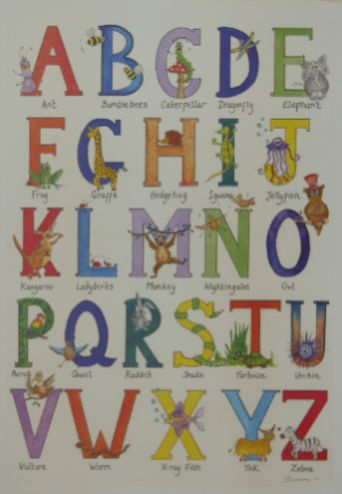
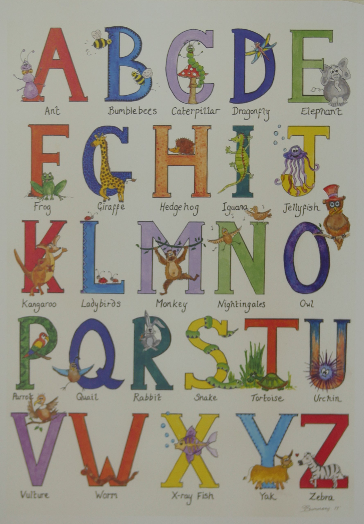
Added Javascript

Changed region(s): [[0.5263, 0.4555, 0.5556, 0.4858]]

diff --git a/art/templates/art/dictionary.html b/art/templates/art/dictionary.html
@@ -19,8 +19,7 @@
                   £35 framed
                   <br>
                   Standard postage rates apply.
-                  <br>
-                  Framed - courier rates
+                 
                 </p>
             </div>
             </div>
@@ -29,25 +28,25 @@
                 
              <div class="col-lg-4 col-sm-4 col-xs-12">  
                 <div class="card dictionaryCard text-center">
-              <img class="nameArt dictionaryPrint img-responsive" src="{% static 'home/images/Alphabet.jpg' %}"/> 
+              <img class="nameArt dictionaryPrint img-responsive" src="{% static 'home/images/Alphabet.jpg' %}"  alt="art, children's art, custom art, dictionary art, name art"/> 
               <p class="aboutParagraph">All the letters of the alphabet</p>
-                    <a href="#" class="btn btn-default orderName" onclick="#">Order Now</a>
+                    <a href="{% url 'contact' %}" class="btn btn-default orderName" onclick="#">Order Now</a>
                     </div>
                     </div>
                     
             <div class="col-lg-4 col-sm-4 col-xs-12">  
                 <div class="card dictionaryCard text-center">
-              <img class="nameArt dictionaryPrint img-responsive" src="{% static 'home/images/Caterpillar.jpg' %}"/> 
+              <img class="nameArt dictionaryPrint img-responsive" src="{% static 'home/images/Caterpillar.jpg' %}"  alt="art, children's art, custom art, dictionary art, name art"/> 
               <p class="aboutParagraph">C is for clever caterpillar</p>
-                    <a href="#" class="btn btn-default orderName" onclick="#">Order Now</a>
+                    <a href="{% url 'contact' %}" class="btn btn-default orderName" onclick="#">Order Now</a>
                     </div>
                     </div>
                     
             <div class="col-lg-4 col-sm-4 col-xs-12">  
                 <div class="card dictionaryCard text-center">
-              <img class="nameArt dictionaryPrint img-responsive" src="{% static 'home/images/elephant.jpg' %}"/> 
+              <img class="nameArt dictionaryPrint img-responsive" src="{% static 'home/images/elephant.jpg' %}"  alt="art, children's art, custom art, dictionary art, name art"/> 
               <p class="aboutParagraph">E is for an entertaining elephant</p>
-                    <a href="#" class="btn btn-default orderName" onclick="#">Order Now</a>
+                    <a href="{% url 'contact' %}" class="btn btn-default orderName" onclick="#">Order Now</a>
                     </div>
                     </div>
             
@@ -56,25 +55,25 @@
             <div class="row">
             <div class="col-lg-4 col-sm-4 col-xs-12">    
             <div class="card dictionaryCard text-center">
-              <img class="nameArt img-responsive" src="{% static 'home/images/dictionary4.jpeg' %}"/> 
+              <img class="nameArt img-responsive" src="{% static 'home/images/FrogFINAL.jpg' %}"  alt="art, children's art, custom art, dictionary art, name art"/> 
               <p class="aboutParagraph">F is for a friendly frog</p>
-                    <a href="#" class="btn btn-default orderName" onclick="#">Order Now</a>
+                    <a href="{% url 'contact' %}" class="btn btn-default orderName" onclick="#">Order Now</a>
                     </div>
                     </div>
             
               <div class="col-lg-4 col-sm-4 col-xs-12">  
                 <div class="card dictionaryCard text-center">
-              <img class="nameArt dictionaryPrint img-responsive" src="{% static 'home/images/Giraffe.jpg' %}"/> 
+              <img class="nameArt dictionaryPrint img-responsive" src="{% static 'home/images/Giraffe.jpg' %}"  alt="art, children's art, custom art, dictionary art, name art"/> 
               <p class="aboutParagraph">G is for a greedy giraffe</p>
-                    <a href="#" class="btn btn-default orderName" onclick="#">Order Now</a>
+                    <a href="{% url 'contact' %}" class="btn btn-default orderName" onclick="#">Order Now</a>
                     </div>
                     </div>
                     
               <div class="col-lg-4 col-sm-4 col-xs-12">  
                 <div class="card dictionaryCard text-center">
-              <img class="nameArt dictionaryPrint img-responsive" src="{% static 'home/images/Jaguar.jpg' %}"/> 
+              <img class="nameArt dictionaryPrint img-responsive" src="{% static 'home/images/Jaguar.jpg' %}"  alt="art, children's art, custom art, dictionary art, name art"/> 
               <p class="aboutParagraph">J is for a jazzy jaguar</p>
-                    <a href="#" class="btn btn-default orderName" onclick="#">Order Now</a>
+                    <a href="{% url 'contact' %}" class="btn btn-default orderName" onclick="#">Order Now</a>
                     </div>
                     </div>
 
@@ -85,18 +84,25 @@
                   
              <div class="col-lg-4 col-sm-4 col-xs-12">
             <div class="card dictionaryCard text-center">
-              <img class="nameArt img-responsive" src="{% static 'home/images/dictionary2.jpeg' %}"/> 
+              <img class="nameArt img-responsive" src="{% static 'home/images/dictionary2.jpeg' %}"  alt="art, children's art, custom art, dictionary art, name art"/> 
               <p class="aboutParagraph">L is for lovely ladybirds </p>
-                    <a href="#" class="btn btn-default orderName" onclick="#">Order Now</a>
+                    <a href="{% url 'contact' %}" class="btn btn-default orderName" onclick="#">Order Now</a>
                     </div>
                     </div>
                 
+                 <div class="col-lg-4 col-sm-4 col-xs-12">  
+                <div class="card dictionaryCard text-center">
+              <img class="nameArt img-responsive" src="{% static 'home/images/MonkeyFINAL.jpg' %}"  alt="art, children's art, custom art, dictionary art, name art"/> 
+              <p class="aboutParagraph">M is for a michevious monkey </p>
+                    <a href="{% url 'contact' %}" class="btn btn-default orderName" onclick="#">Order Now</a>
+                    </div>
+                    </div>                
                     
                 <div class="col-lg-4 col-sm-4 col-xs-12">  
                 <div class="card dictionaryCard text-center">
-              <img class="nameArt dictionaryPrint img-responsive" src="{% static 'home/images/owl.jpg' %}"/> 
+              <img class="nameArt dictionaryPrint img-responsive" src="{% static 'home/images/owl.jpg' %}"  alt="art, children's art, custom art, dictionary art, name art"/> 
               <p class="aboutParagraph">O is for an old owl</p>
-                    <a href="#" class="btn btn-default orderName" onclick="#">Order Now</a>
+                    <a href="{% url 'contact' %}" class="btn btn-default orderName" onclick="#">Order Now</a>
                     </div>
                     </div>
                 </div>
@@ -107,9 +113,9 @@
  {% for art in art %}
         <div class="col-lg-6 col-sm-6 col-xs-12">
                 <div class="card dictionaryCard text-center">
-                 <img class="nameArt dictionaryPrint img-responsive" src="{{ MEDIA_URL }}{{ art.image }}"/>
+                 <img class="nameArt dictionaryPrint img-responsive" src="{{ MEDIA_URL }}{{ art.image }}"  alt="art, children's art, custom art, dictionary art, name art"/>
                     <p class="aboutParagraph">{{ art.description }}</p>
-                     <a href="#" class="btn btn-default orderName" onclick="#">Order Now</a>
+                     <a href="{% url 'contact' %}" class="btn btn-default orderName" onclick="#">Order Now</a>
                     </div>
                       <br>
                     </div>

diff --git a/art/templates/art/name.html b/art/templates/art/name.html
@@ -26,16 +26,16 @@
             </div>
             <div class="col-lg-6 col-sm-6 col-xs-12 text-left">
                  <div class="card nameCard text-center">
-              <img class="nameArt Ava img-responsive" src="{% static 'home/images/name2.jpeg' %}"/> 
+              <img class="nameArt Ava img-responsive" src="{% static 'home/images/name2.jpeg' %}" alt="Name art"/> 
               <p class="aboutParagraph">Ava: A for Angel fish, Vulture and Anteater. </p>
-                    <a href="#" class="btn btn-default orderName" onclick="#">Order Now</a>
+                    <a href="{% url 'contact' %}" class="btn btn-default orderName" onclick="#">Order Now</a>
                     </div>
                     <br>
                     <br>
                  <div class="card nameCard text-center">
-              <img class="nameArt Nathan img-responsive" src="{% static 'home/images/name3.jpeg' %}"/> 
+              <img class="nameArt Nathan img-responsive" src="{% static 'home/images/name3.jpeg' %}" alt="Name art"/> 
               <p class="aboutParagraph">Nautical Nathy opted for a mix of blues and lots of underwater pals.</p>
-                    <a href="#" class="btn btn-default orderName" onclick="#">Order Now</a>
+                    <a href="{% url 'contact' %}" class="btn btn-default orderName" onclick="#">Order Now</a>
                     </div>
                     </div>
 
@@ -43,9 +43,9 @@
             
         <div class="col-lg-6 col-sm-6 col-xs-12 text-left">
             <div class="card nameCard text-center">
-                   <img class="nameArt img-responsive" src="{% static 'home/images/barney.jpeg' %}"/>
+                   <img class="nameArt img-responsive" src="{% static 'home/images/barney.jpeg' %}" alt="Children's art"/>
                     <p class="aboutParagraph">Barney & Beau's favourite selection of animals, even mystical animals too.</p>
-                    <a href="#" class="btn btn-default orderName" onclick="#">Order Now</a>
+                    <a href="{% url 'contact' %}" class="btn btn-default orderName" onclick="#">Order Now</a>
                     </div>
                       <br>
                     </div>
@@ -54,18 +54,18 @@
         <div class="row">        
          <div class="col-lg-6 col-sm-6 col-xs-12">
             <div class="card nameCard text-center">
-                   <img class="nameArt Abigail img-responsive" src="{% static 'home/images/name9.jpeg' %}"/>
+                   <img class="nameArt Abigail img-responsive" src="{% static 'home/images/name9.jpeg' %}" alt="art for children"/>
                     <p class="aboutParagraph">Abigail's name is spelt with the help of animal friends big and small.</p>
-                    <a href="#" class="btn btn-default orderName" onclick="#">Order Now</a>
+                    <a href="{% url 'contact' %}" class="btn btn-default orderName" onclick="#">Order Now</a>
                     </div>
                       <br>
                       </div>
             
             <div class="col-lg-6 col-sm-6 col-xs-12">
             <div class="card nameCard text-center">
-                   <img class="nameArt img-responsive" src="{% static 'home/images/maddox.jpeg' %}"/>
+                   <img class="nameArt img-responsive" src="{% static 'home/images/maddox.jpeg' %}" alt="art for children"/>
                     <p class="aboutParagraph">Life's a beach for Maddox.</p>
-                    <a href="#" class="btn btn-default orderName" onclick="#">Order Now</a>
+                    <a href="{% url 'contact' %}" class="btn btn-default orderName" onclick="#">Order Now</a>
                     </div>
                       <br>
                     </div>
@@ -76,18 +76,18 @@
         <div class="row">
          <div class="col-lg-6 col-sm-6 col-xs-12">
                <div class="card nameCard text-center">
-              <img class="nameArt img-responsive" src="{% static 'home/images/name8.jpeg' %}"/> 
+              <img class="nameArt img-responsive" src="{% static 'home/images/name8.jpeg' %}" alt="art for children"/> 
               <p class="aboutParagraph">A colourful carnival for Carys</p>
-                    <a href="#" class="btn btn-default orderName" onclick="#">Order Now</a>
+                    <a href="{% url 'contact' %}" class="btn btn-default orderName" onclick="#">Order Now</a>
                     </div>
                     <br>
                    </div>
                    
                  <div class="col-lg-6 col-sm-6 col-xs-12">
                 <div class="card nameCard text-center">
-              <img class="nameArt Nathan img-responsive" src="{% static 'home/images/name4.jpeg' %}"/> 
+              <img class="nameArt Nathan img-responsive" src="{% static 'home/images/name4.jpeg' %}" alt="art, children's art, custom art, dictionary art, name art"/> 
               <p class="aboutParagraph">Mystical Megan's fantasy land </p>
-                    <a href="#" class="btn btn-default orderName" onclick="#">Order Now</a>
+                    <a href="{% url 'contact' %}" class="btn btn-default orderName" onclick="#">Order Now</a>
                     </div>
                     <br>
                     </div>
@@ -99,9 +99,9 @@
  {% for art in art %}
         <div class="col-lg-6 col-sm-6 col-xs-12">
                 <div class="card nameCard text-center">
-                 <img class="nameArt img-responsive" src="{{ MEDIA_URL }}{{ art.image }}"/>
+                 <img class="nameArt img-responsive" src="{{ MEDIA_URL }}{{ art.image }}"  alt="art, children's art, custom art, dictionary art, name art"/>
                     <p class="aboutParagraph">{{ art.description }}</p>
-                     <a href="#" class="btn btn-default orderName" onclick="#">Order Now</a>
+                     <a href="{% url 'contact' %}" class="btn btn-default orderName" onclick="#">Order Now</a>
                     </div>
                       <br>
                     </div>

diff --git a/home/templates/base.html b/home/templates/base.html
@@ -17,6 +17,7 @@
     {% endblock head_style %} 
     {% block head_js %}
     <script src="https://cdnjs.cloudflare.com/ajax/libs/jquery/3.2.1/jquery.min.js"></script>
+     <script src="{% static 'home/js/script.js' %}"></script>
     {% endblock head_js %}
     <title>Zoodles</title>
 </head>
@@ -27,9 +28,9 @@
         <nav class="navbar navbar-default navbar-masthead navbar-trans navbar-fixed-top">
             <div class="container-fluid">
                 <div class="navbar-header navbar-left">
-                    <a class="brand" href="/"><img class="img-responsive" src="{% static 'home/images/zoodles.1.png' %}"><h3>.co.uk</h3></img></a>
+                    <a class="brand" href="/"><img class="img-responsive" src="{% static 'home/images/zoodles.co.png' %}"></img></a>
 
-                    <button type="button" class="navbar-toggle collapsed" data-toggle="collapse" data-target="#navbar" aria-expanded="false" aria-controls="navbar">
+                    <button type="button" class="navbar-toggle collapsed pull-right" data-toggle="collapse" data-target="#navbar" aria-expanded="false" aria-controls="navbar">
                     <span class="sr-only">Toggle navigation</span>
                     <span class="icon-bar"></span>
                     <span class="icon-bar"></span>
@@ -48,11 +49,47 @@
                 </div>
             </div>
         </nav>
-    </section>
+    </section
      
 
  <div class="container-fluid">
         {% block content %} {% endblock %}
     </div>
+    
+    <hr>
+        <section id="Footer">
+        <footer class="myFooter">
+            <div class="container-fluid">
+                <div class="row">
+                    <div class="col-sm-4 text-center">
+                        <h3>My Art</h3>
+                        <a href="{% url 'name' %}">Name Portraits</a>
+                        <br>
+                        <a href="{% url 'dictionary' %}">Dictionary Prints</a>
+
+                        
+
+                    </div>
+                    <div class="col-sm-4">
+                       <img class="img-responsive footerLogo" src="{% static 'home/images/zoodles.co.png' %}"></img>
+                     </div>
+                     
+                    <div class="col-sm-4 text-center">
+                        <h2>Contact</h2>
+                            <a href="{% url 'contact' %}">Contact</a>
+                            <br>
+                            <a href="{% url 'about' %}">About</a>
+                        </div>
+                        <br>
+                   <div class="col-12 text-center">
+                       <p>Website designed with <i class="fa fa-heart"></i> by <a href="https://www.nicholawolfe.com/">Nichola Wolfe</a></p>
+                   </div>
+                    </div>
+                </div>
+            </div>
+
+        </footer>
+    </section>
+
 </body>
 </html>

diff --git a/home/templates/contact.html b/home/templates/contact.html
@@ -17,7 +17,7 @@
                     <br>
                     <p class="formText">Fill in the form below outlining the custom art piece or print you would you like and I'll respond with options and pricing.</p>
                     <br>
-                    <form class="myForm" onsubmit="openModal()" action="https://formspree.io/beansara@hotmail.com" method="POST">
+                    <form class="myForm" onsubmit="openModal()" action="https://formspree.io/sara@zoodles.co.uk" method="POST">
                         <div class="form-group"><input class="form-control" name="email" required="" type="email" placeholder="Your email *"></div>
                         <div class="form-group"><input class="form-control mt-3" name="name" type="text" placeholder="Your name"></div>
                         <div class="form-group"><input class="form-control mt-3" name="telephone" type="tel" placeholder="Your telephone"></div>
@@ -29,5 +29,24 @@
             </div>
         </div>
         </div>
+        
+         <article class="modal fade" tabindex="-1" role="dialog" id="myModal">
+            <div class="modal-dialog" role="document">
+                <div class="modal-content">
+                    <div class="modal-header">
+                        <button type="button" class="close" data-dismiss="modal" aria-label="Close"><span aria-hidden="true">&times;</span></button>
+                        <p class="modal-title">Thanks for getting in touch</p>
+                    </div>
+                    <div class="modal-body">
+                        <p>I've got your message and I'll respond to your query as soon as possible</p>
+                    </div>
+                    <div class="modal-footer">
+                        <button type="button" class="btn btn-default" data-dismiss="modal">OK</button>
+                    </div>
+                </div>
+            </div>
+
+        </article>
+    </section>
         
 {% endblock content %}

diff --git a/home/static/home/style.css b/home/static/home/style.css
@@ -2,11 +2,18 @@ body {
     font-family: 'Montserrat', sans-serif;
 }
 
-a, h4, h3, h2, h1 {
+a, h4, h3, h2, h1, li {
    color: #5EC5C4;
    font-family: 'Indie Flower', cursive;
 }
 
+a {
+    font-size: 2rem;
+}
+.ul {
+    color: #5EC5C4;
+    font-family: 'Montserrat', sans-serif;
+}
 
 .btn-default {
     background-color: #5EC5C4;
@@ -160,8 +167,12 @@ margin-top: 0px;
 }
 
 .dictionaryPrint {
-     -webkit-filter: brightness(140%);
+     -webkit-filter: brightness(140%) saturate(110%);
     
+}
+
+.footerLogo {
+    margin: auto;
 }
 
 @media only screen and (max-width: 500px) {

diff --git a/home/static/home/js/script.js b/home/static/home/js/script.js
@@ -1,0 +1,29 @@
+$(document).ready(function(){
+
+$('#myForm').on('submit', function(e){
+  $('#myModal').modal('show');
+  e.preventDefault();
+
+ });
+  
+$('a').mouseenter(function() {
+ 	$(this).css("color", "#5EC5C4");
+ });
+
+$('a').mouseleave(function(){
+    $(this).css("color", "#4a4a4f");
+});
+
+$(".card").mouseenter(function(){
+    $(this).css("background-color", "#5EC5C4").css("color", "white");
+});
+
+$(".card").mouseleave(function(){
+    $(this).css("background-color", "white");
+});
+});
+
+
+
+
+
